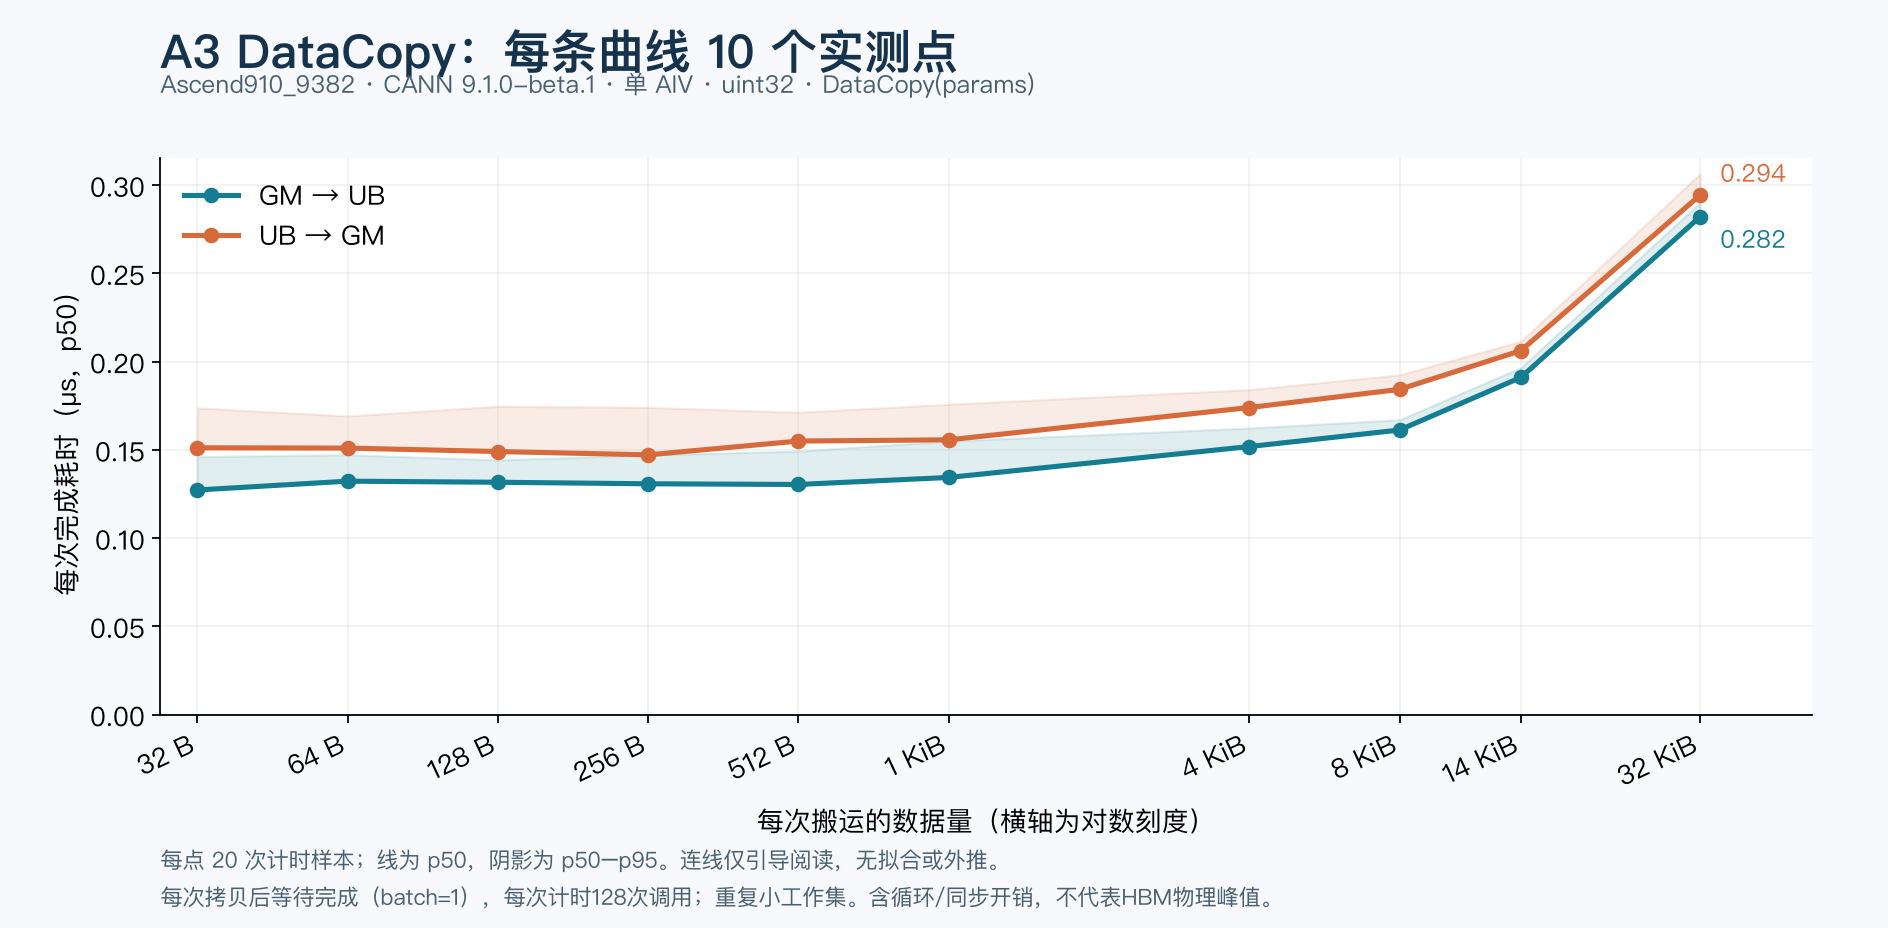
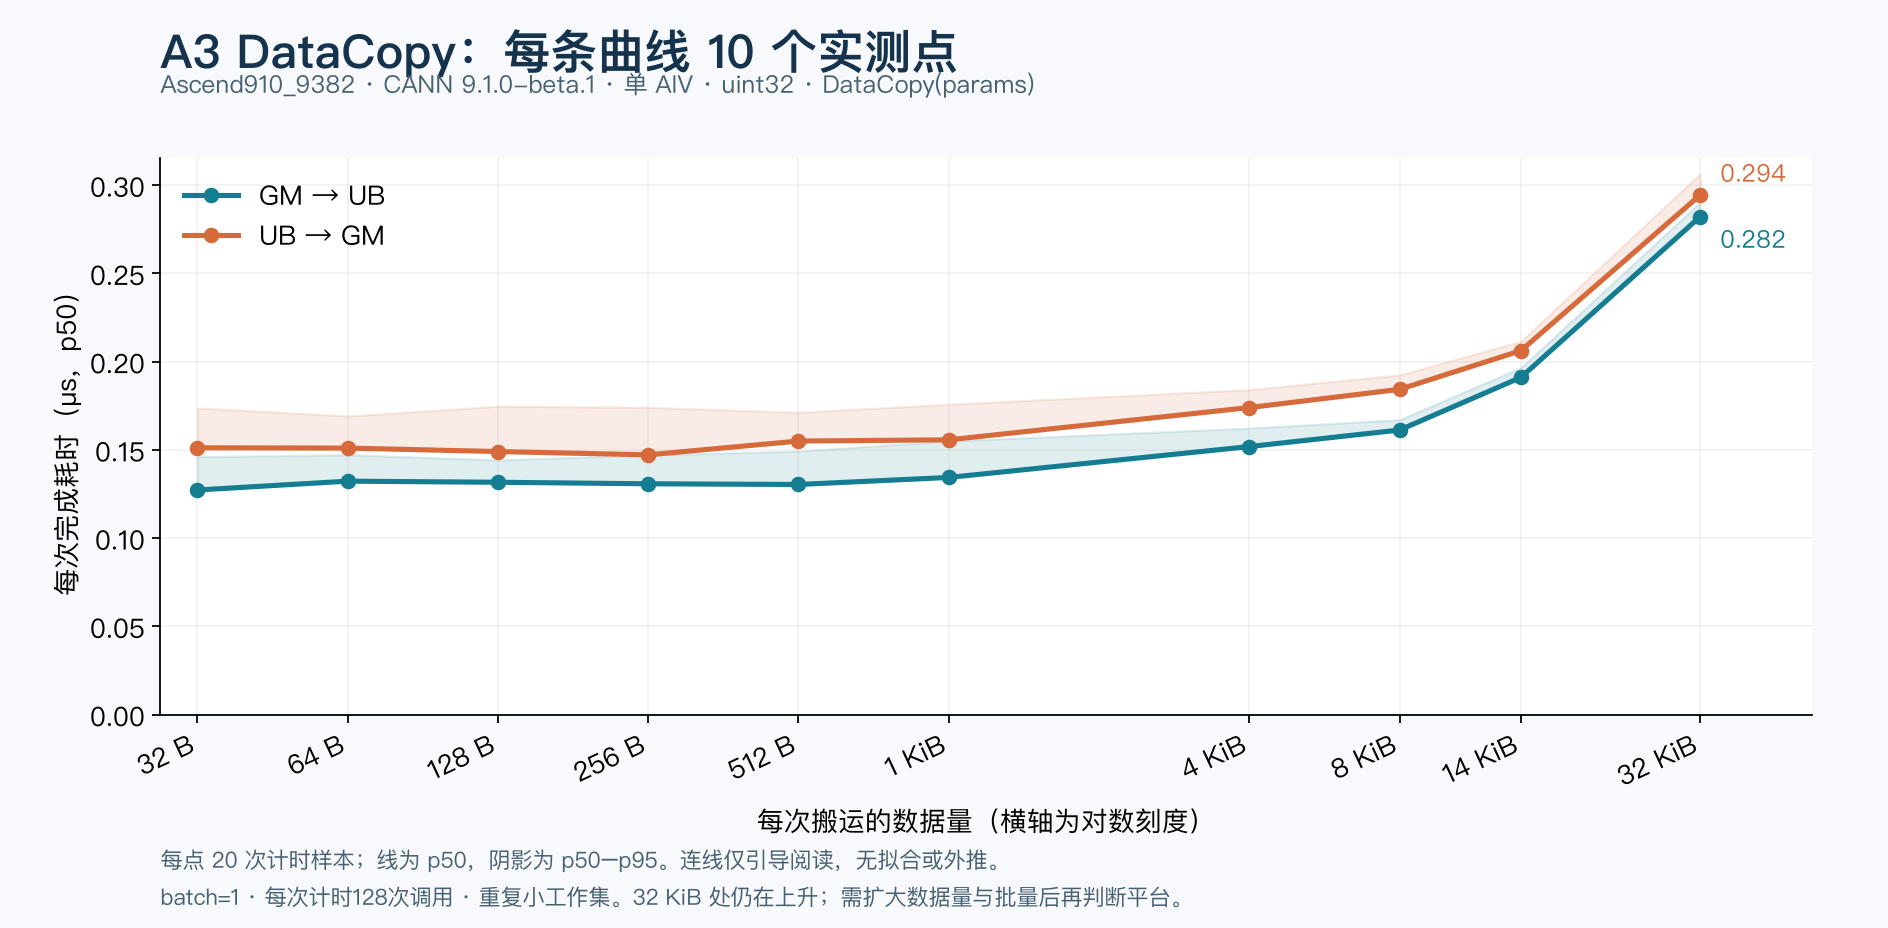
docs: mark throughput ceiling unmeasured and add capacity sweep procedure

Changed region(s): [[0.0938, 0.9375, 0.6562, 1.0]]

diff --git a/reports/datacopy-a3-ten-points/plot.py b/reports/datacopy-a3-ten-points/plot.py
@@ -25,7 +25,7 @@ plt.rcParams.update({'font.family':font,'axes.unicode_minus':False,'font.size':1
 labels=['32 B','64 B','128 B','256 B','512 B','1 KiB','4 KiB','8 KiB','14 KiB','32 KiB']
 for metric,title,ylabel,filename in [
     ('p50_us','A3 DataCopy：每条曲线 10 个实测点','每次完成耗时（μs，p50）','latency-10.png'),
-    ('payload_GBps','A3 DataCopy：10 个 shape 的有效吞吐','有效 payload 吞吐（GB/s）','throughput-10.png')]:
+    ('payload_GBps','A3 DataCopy：逐次等待扫描，尚未测到吞吐平台','有效 payload 吞吐（GB/s）','throughput-10.png')]:
     fig,ax=plt.subplots(figsize=(11.8,5.8))
     fig.patch.set_facecolor('#f7f9fc');ax.set_facecolor('white')
     fig.suptitle(title,x=.085,y=.97,ha='left',fontsize=21,fontweight='bold',color='#15334d')
@@ -44,7 +44,7 @@ for metric,title,ylabel,filename in [
     ax.grid(axis='both',alpha=.16);ax.legend(loc='upper left',frameon=False)
     foot='每点 20 次计时样本；线为 p50，阴影为 p50–p95。' if metric=='p50_us' else '每点吞吐 = 有效字节 ÷ p50 完成耗时；单向计量。'
     fig.text(.085,.065,foot+'连线仅引导阅读，无拟合或外推。',color='#486172',fontsize=10)
-    fig.text(.085,.025,'每次拷贝后等待完成（batch=1），每次计时128次调用；重复小工作集。含循环/同步开销，不代表HBM物理峰值。',color='#486172',fontsize=10)
+    fig.text(.085,.025,'batch=1 · 每次计时128次调用 · 重复小工作集。32 KiB 处仍在上升；需扩大数据量与批量后再判断平台。',color='#486172',fontsize=10)
     fig.subplots_adjust(left=.085,right=.96,bottom=.23,top=.83)
     fig.savefig(root/filename,dpi=160,facecolor=fig.get_facecolor());plt.close(fig)
 print('Recomputed p50/p95 and throughput for all 20 points; wrote two PNGs.')

diff --git a/reports/datacopy-a3-ten-points/throughput-scan.md b/reports/datacopy-a3-ten-points/throughput-scan.md
@@ -1,0 +1,67 @@
+# 把吞吐扫描延伸到平台区
+
+旧10点扫描到32KiB仍在增长，尚不能用于判断最高吞吐。原基准还错误地给所有重载套用了Pad的65535字节上限，并把UB固定限制在128KiB。AKL #33已修正长度单位，以运行时设备容量检查UB；测量内核仍保持原来的每批完成语义，便于复测对照。
+
+本次提供的扩展尚未在NPU上执行。原A3设备繁忙；不把有竞争的测量当成无竞争基线。以下命令要求AKL #33含`akl.datacopy_sweep`的提交，独立编译该分支即可运行。
+
+## 1. 读取实际容量并生成矩阵
+
+先按[A5指南](a5-testing.md)准备同芯片profile和动态库；A3使用其已验证的dav-2201、50MHz配置。不要套用另一机型的UB大小、架构或频率。
+
+```bash
+export DEVICE=0
+export LIBRARY="$PWD/build-a5/libakl_datacopy.so"  # A3改为其构建输出
+export PROFILE="$PWD/a5-profile.json"           # A3改为其profile
+export PYTHONPATH="$PWD/python"
+npu-smi info
+# 确认空闲后查询，Runtime.info也会在驱动不返回UB时读取本CANN的SoC配置。
+export UB_BYTES=$(python3 - <<'PY'
+import os
+from pathlib import Path
+from akl.native import Runtime
+r=Runtime(Path(os.environ['LIBRARY']), int(os.environ['DEVICE']), symbol='akl_copy', params_size=64)
+try: print(r.info()['ub_bytes'])
+finally: r.close()
+PY
+)
+python3 -m akl.datacopy_sweep plan --ub-bytes "$UB_BYTES" --mode small --output results/plan-small
+python3 -m akl.datacopy_sweep plan --ub-bytes "$UB_BYTES" --mode ring --ring-mib 64 --output results/plan-ring
+```
+
+扫描固定uint32、DataCopy(params)、单AIV、单向本地GM：
+
+- 每次数据量从32B按倍数增加，并加入14KiB和各batch的实际容量端点。
+- batch分别为1/2/4/8/16/32/64，批内使用独立UB槽位，整批完成后才复用。不同batch分别画线。
+- small复用小工作集；ring目标64MiB，按整批槽位向上取整。超出槽数或循环上限的小shape显式跳过，不缩小工作集伪装成同条件。
+- 每个GM槽至少访问两次；计时包含所有循环、地址计算和每批完成等待。仍不是连续流水，也不是全卡HBM峰值。
+
+例如本次读取的A3 CANN配置UB为196608B，最大单次为196288B（192KiB减320B记录器空间）；生成162个small配置、90个ring配置。**这是规划数量，不是已实测数量。** 其他芯片按查询值重生成。
+
+## 2. 容量端点冒烟，再独立跑两轮
+
+```bash
+# small/ring共用相同UB容量约束，先检查每个batch的最大UB用量。
+python3 scripts/run_datacopy.py --profile "$PROFILE" --device "$DEVICE" --library "$LIBRARY" \
+  --cases results/plan-small/smoke.json --samples 3 --warmup 1 --output results/capacity-smoke || exit 1
+for MODE in small ring; do
+  for ROUND in 1 2; do
+    python3 scripts/run_datacopy.py --profile "$PROFILE" --device "$DEVICE" --library "$LIBRARY" \
+      --cases "results/plan-$MODE/cases.json" --samples 20 --warmup 3 \
+      --seed "$((20260924 + ROUND))" --output "results/sweep-$MODE-$ROUND" || exit 1
+  done
+  python3 -m akl.datacopy_sweep report "results/plan-$MODE/plan.json" \
+    "results/sweep-$MODE-1" "results/sweep-$MODE-2" --output "results/scan-$MODE" || exit 1
+done
+```
+
+每个run保存原始tick、正确性输出摘要、环境与占用证据；平台报告再次核对原始数据、完整矩阵、实际UB和同一编译库。每方向每batch单独连线；不把不同batch最快点拼成一条S曲线。
+
+`results/scan-*/throughput-sweep.png`/`.svg`为两轮曲线，`saturation.json`记录每轮带宽、工作集和判定。平台候选要求末尾3个尺寸跨度至少2倍、两轮所有末端带宽差异≤10%、各点p95/p50≤1.10。阈值是预先规定的筛选规则，不是统计显著性结论。
+
+## 3. 什么才算回答了上限问题
+
+`not_observed`代表没有测到平台，不能把最右点叫上限。`candidate_plateau`仅说明该batch/工作集下出现稳定区；还要比较更大的batch、环大小以及计时循环数是否继续增益。固定发射开销、每批排空或单AIV供给不足都可能造成平台，不能直接归因为硬件能力。
+
+若批量扫描仍明显增长，下一步应针对已测瓶颈实现有界流水，并证明UB复用时旧DMA已完成；不能直接删等待。若要问整卡吞吐，则另外扫描AIV数，并以覆盖全部核完成的共同时间窗口计量。真实算子中的逐次等待应对齐单次完成基线，连续独立搬运应对齐对应吞吐基线。
+
+数据量—带宽常会从低值增长后趋平；横轴和开销模型会改变外观，不能以“画成S形”为验收。这里以重复测量的平台与扩展后收益判断。

diff --git a/reports/datacopy-a3-ten-points/README.md b/reports/datacopy-a3-ten-points/README.md
@@ -2,6 +2,8 @@
 
 配套 [AKL #33](https://github.com/Kirrito-k423/ascend-kernel-lab/pull/33)，仅重算已有 NPU 实测数据，本次没有新跑设备。
 
+**尚未测到吞吐平台。** 下面是逐次等待完成的延迟扫描；到32KiB时带宽仍明显增长，116.12/111.28GB/s只能称为此扫描已测的最高值。吞吐上限必须继续扩大单次数据量、每批调用数，并区分工作集。[扩展扫描与平台检查步骤](throughput-scan.md)已提供，新增大容量配置仍待空闲设备实测。
+
 ## 到底测了多少个 shape
 
 shape 按 **每段字节数、段数、段间 gap** 去重，共 **18 种布局**：15种单段长度（4～32768B），加3种跨步布局（32B×16、gap=480B；480B×16、gap=32B；480B×31、gap=32B）。再考虑dtype，覆盖21种dtype+布局组合。
@@ -29,7 +31,7 @@ shape 按 **每段字节数、段数、段间 gap** 去重，共 **18 种布局*
 | 14336 | 0.19109 | 0.20625 | 75.02 | 69.51 |
 | 32768 | 0.28219 | 0.29445 | 116.12 | 111.28 |
 
-小shape在本配置下约0.13～0.16μs；32KiB分别为0.28219/0.29445μs、116.12/111.28GB/s。这里每次拷贝都等待完成，且重复访问小工作集，包含循环和同步开销；不是HBM物理峰值，也不是A5预期值。
+小shape在本配置下约0.13～0.16μs；32KiB分别为0.28219/0.29445μs、116.12/111.28GB/s。这里每次拷贝都等待完成，且重复访问小工作集，包含循环和同步开销；尚未观察到平台，不是HBM物理峰值，也不是A5预期值。
 
 [points.csv](points.csv) 保留20个点的统计值及每点全部20个原始区间tick；[coverage.json](coverage.json) 保留计数定义、环境及两次run的manifest/库哈希。完整设备日志、输出和源码快照仍在原实验归档，不在这里公开。
 

diff --git a/reports/datacopy-a3-ten-points/a5-testing.md b/reports/datacopy-a3-ten-points/a5-testing.md
@@ -85,4 +85,4 @@ PYTHONPATH=python python3 -m akl.datacopy_report results/a5-real-shapes
 
 结果中看`report.html`、`latency.png`和`throughput.png`；`manifest.json`保存实际CANN/编译器等信息，`summary.csv`和`catalog.json`归档基线。10-shape完整运行共20×43=860次launch；每个点使用20次计时样本。
 
-这里测的是每次完成延迟以及由它计算的有效吞吐。若要测批量完成吞吐，再用batch=4、slots=4的独立配置，并按实际UB容量减少单次长度；不得把不同batch/工作集混成一条曲线。真实shape hook本身不测DMA独立完成时间，暂不能把复合TokenCopyToBuffer阶段直接标成纯DataCopy的预期时间。
+这里测的是每次完成延迟以及由它计算的有效吞吐，10点曲线不能确定上限。继续执行[吞吐扫描](throughput-scan.md)，按本机实际UB容量扩大单次长度，扫描batch=1～64，并做两轮平台检查。真实shape hook本身不测DMA独立完成时间，暂不能把复合TokenCopyToBuffer阶段直接标成纯DataCopy的预期时间。
